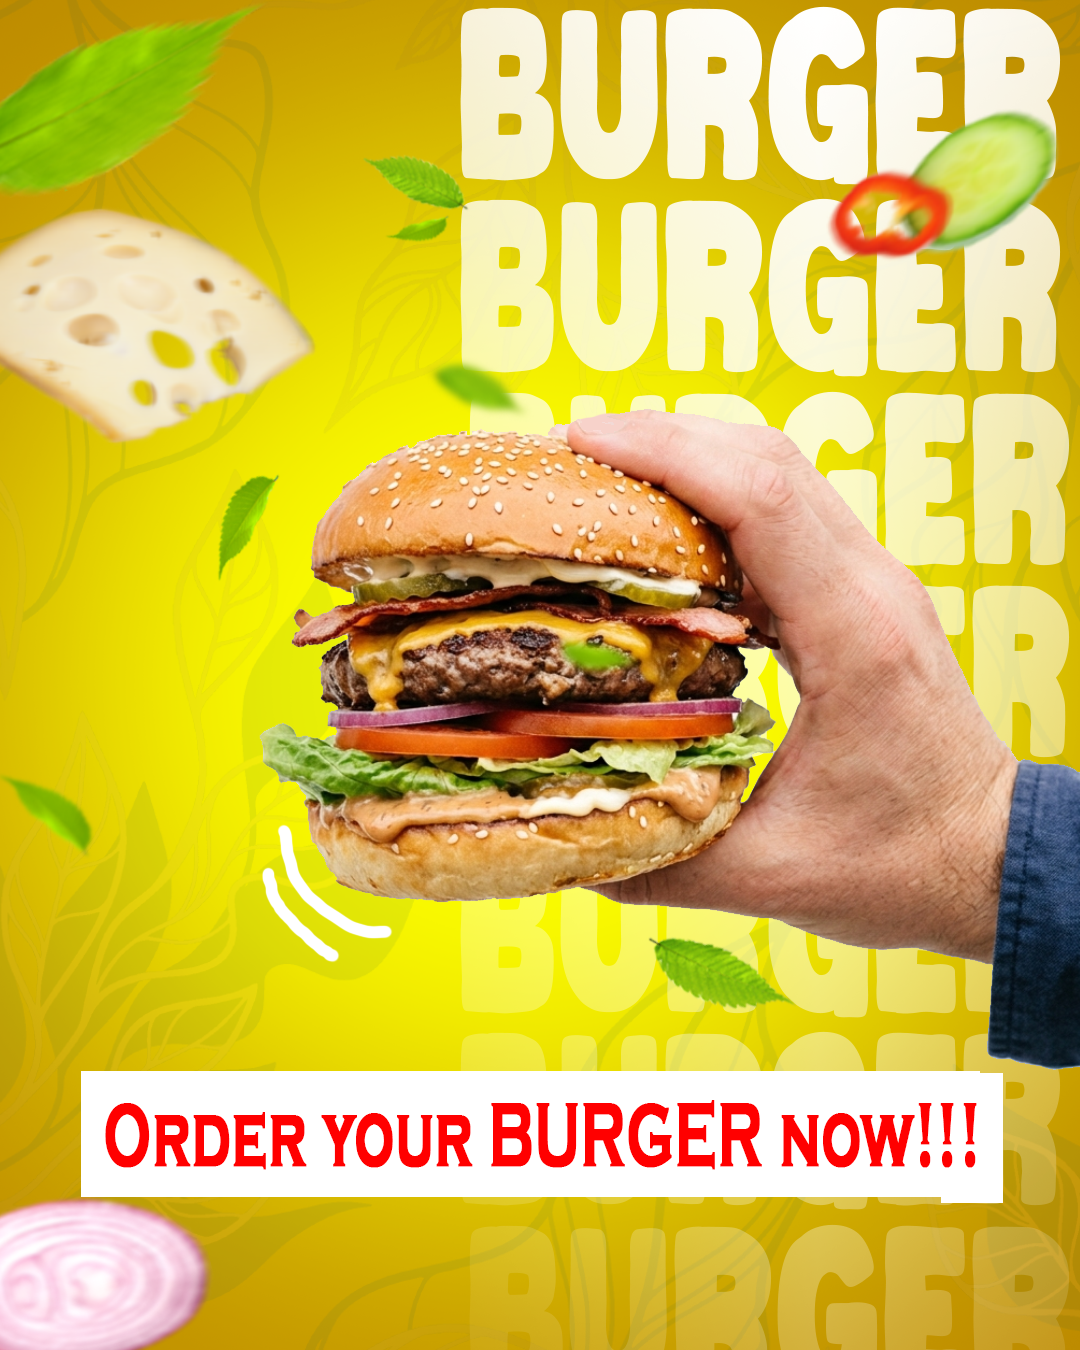
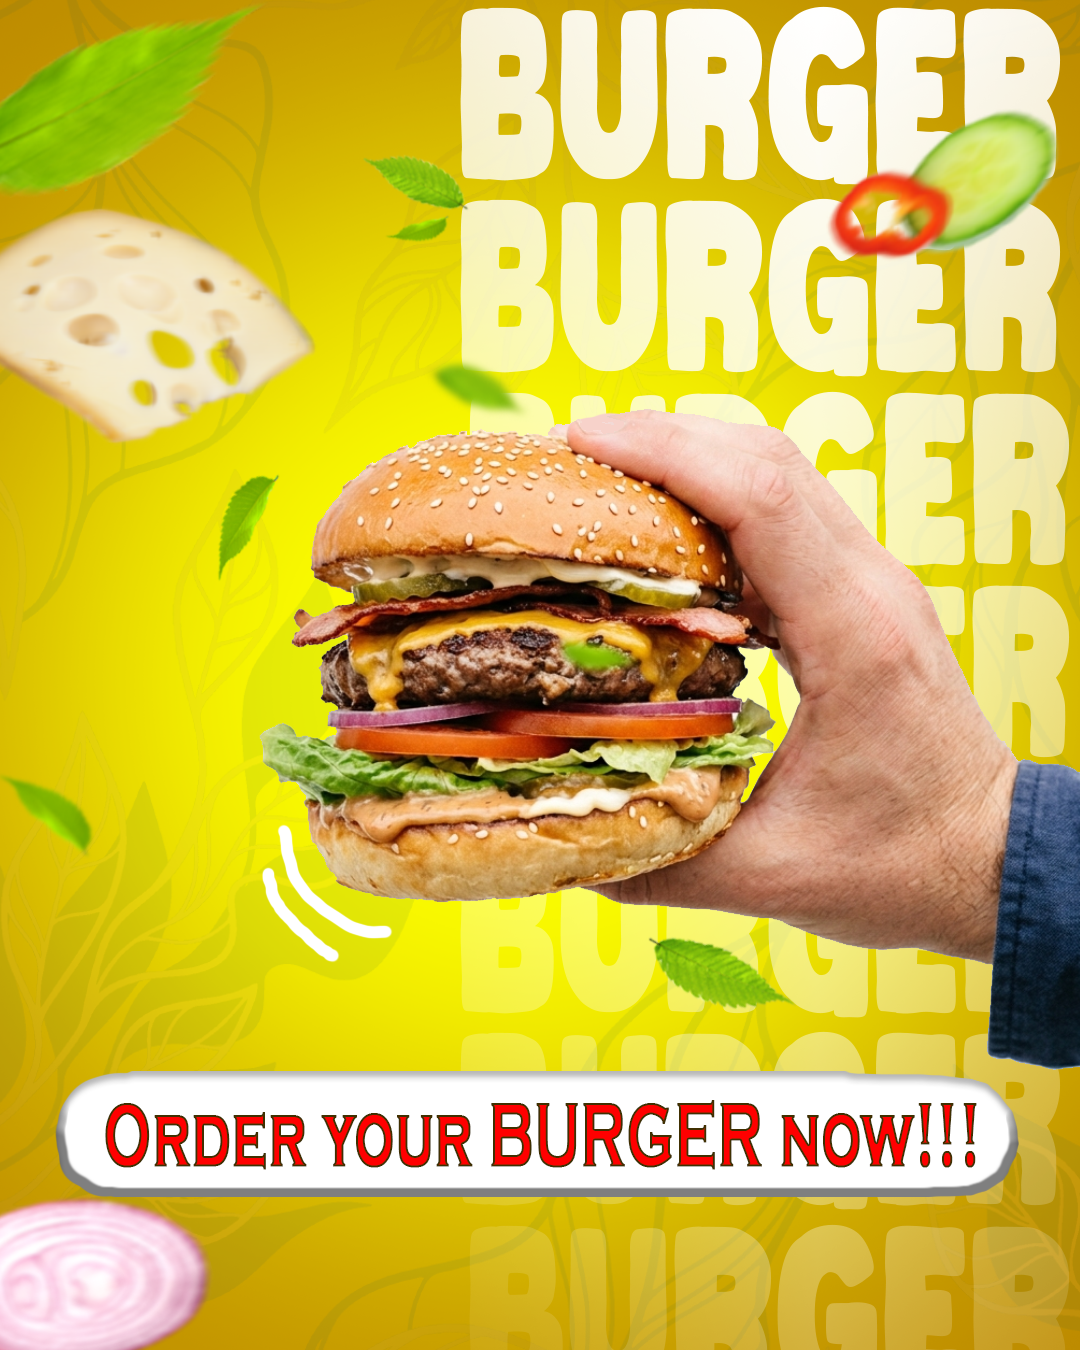
y

Changed region(s): [[0.0306, 0.7778, 0.9472, 0.9022]]

diff --git a/Affiches.html b/Affiches.html
@@ -458,44 +458,23 @@ footer {
         <h2 class="section-title lang-text" data-fr="Galerie d'Affiches & Projets" data-en="Poster Gallery & Projects">Galerie d'Affiches & Projets</h2>
         
         <div class="gallery-grid">
-            
-            <div class="poster-card">
-                <div class="poster-image">
-                    <img src="img/Affiches/Burger 1.png" alt="Design Agrival">
-                </div>
-                <div class="poster-info">
-                    <h3 class="poster-title">Design </h3>
-                    <p class="poster-category lang-text" data-fr="Coup de main en design" data-en="Support other designer">Coup de main en design</p>
-                </div>
-            </div>
-
-            <div class="poster-card">
-                <div class="poster-image">
-                    <img src="img/Affiches/Butter Chicken Thali - Modifié.png" alt="Design Nutrilait">
-                </div>
-                <div class="poster-info">
-                    <h3 class="poster-title">Sushi</h3>
-                    <p class="poster-category lang-text" data-fr="Le grand retour" data-en="The come back">Le grand retour</p>
-                </div>
-            </div>
-
-            <div class="poster-card">
-                <div class="poster-image">
-                    <img src="img/Affiches/Butter Chicken Thali.png" alt="Fyaro Services">
-                </div>
-                <div class="poster-info">
-                    <h3 class="poster-title">TEST</h3>
-                    <p class="poster-category lang-text" data-fr="Développement de compétence" data-en="Developping skills">Développement de compétence</p>
-                </div>
-            </div>
-
             <div class="poster-card">
                 <div class="poster-image">
                     <img src="img/Affiches/Coffee premium.png" alt="Expression Artistique">
                 </div>
                 <div class="poster-info">
-                    <h3 class="poster-title">Vision & Identité</h3>
-                    <p class="poster-category lang-text" data-fr="Art Numérique" data-en="Digital Art">Art Numérique</p>
+                    <h3 class="poster-title">Coffee </h3>
+                    <p class="poster-category lang-text" data-fr="Coffee premium" data-en="Coffee premium">premium</p>
+                </div>
+            </div>
+
+             <div class="poster-card">
+                <div class="poster-image">
+                    <img src="img/Affiches/Serum.png" alt="Projet Sérénité">
+                </div>
+                <div class="poster-info">
+                    <h3 class="poster-title">Serum</h3>
+                    <p class="poster-category lang-text" data-fr="Serum" data-en="Serum">Aloe Vera</p>
                 </div>
             </div>
 
@@ -504,38 +483,64 @@ footer {
                     <img src="img/Affiches/Indian King - MASALA UTTAPAM Thali Veg.png" alt="MBA Projet">
                 </div>
                 <div class="poster-info">
-                    <h3 class="poster-title">Corporate Management</h3>
-                    <p class="poster-category lang-text" data-fr="Design Éditorial" data-en="Editorial Design">Design Éditorial</p>
+                    <h3 class="poster-title">MASALA UTTAPAM </h3>
+                    <p class="poster-category lang-text" data-fr="MASALA UTTAPAM Thali Veg" data-en="MASALA UTTAPAM Thali Veg">Thali Veg</p>
                 </div>
             </div>
+
+            <div class="poster-card">
+                <div class="poster-image">
+                    <img src="img/Affiches/Burger 1.png" alt="Design Agrival">
+                </div>
+                <div class="poster-info">
+                    <h3 class="poster-title">Miam </h3>
+                    <p class="poster-category lang-text" data-fr="Burger" data-en="Burger">Burger</p>
+                </div>
+            </div>
+
+            <div class="poster-card">
+                <div class="poster-image">
+                    <img src="img/Affiches/Protein.png" alt="Design Nutrilait">
+                </div>
+                <div class="poster-info">
+                    <h3 class="poster-title">Whey</h3>
+                    <p class="poster-category lang-text" data-fr="Protein" data-en="Protein">Protein</p>
+                </div>
+            </div>
+
+            <div class="poster-card">
+                <div class="poster-image">
+                    <img src="img/Affiches/Butter Chicken Thali.png" alt="Fyaro Services">
+                </div>
+                <div class="poster-info">
+                    <h3 class="poster-title">Butter Chicken </h3>
+                    <p class="poster-category lang-text" data-fr="Butter Chicken Thali" data-en="Butter Chicken Thali"> Thali</p>
+                </div>
+            </div>
+
+            <div class="poster-card">
+                <div class="poster-image">
+                    <img src="img/Affiches/Sushi.png" alt="Projet Sérénité">
+                </div>
+                <div class="poster-info">
+                    <h3 class="poster-title">Sushi</h3>
+                    <p class="poster-category lang-text" data-fr="Sushi" data-en="Sushi"></p>
+                </div>
+            </div>
+
+            
 
             <div class="poster-card">
                 <div class="poster-image">
                     <img src="img/Affiches/intense perfume.png" alt="Projet Sérénité">
                 </div>
                 <div class="poster-info">
-                    <h3 class="poster-title">Mindfulness Concept</h3>
-                    <p class="poster-category lang-text" data-fr="Affiche Conceptuelle" data-en="Conceptual Poster">Affiche Conceptuelle</p>
+                    <h3 class="poster-title">Intense </h3>
+                    <p class="poster-category lang-text" data-fr="intense perfume" data-en="intense perfume">perfume</p>
                 </div>
             </div>
-            <div class="poster-card">
-                <div class="poster-image">
-                    <img src="img/Affiches/Serum.png" alt="Projet Sérénité">
-                </div>
-                <div class="poster-info">
-                    <h3 class="poster-title">Mindfulness Concept</h3>
-                    <p class="poster-category lang-text" data-fr="Affiche Conceptuelle" data-en="Conceptual Poster">Affiche Conceptuelle</p>
-                </div>
-            </div>
-            <div class="poster-card">
-                <div class="poster-image">
-                    <img src="img/Affiches/Sushi.png" alt="Projet Sérénité">
-                </div>
-                <div class="poster-info">
-                    <h3 class="poster-title">Mindfulness Concept</h3>
-                    <p class="poster-category lang-text" data-fr="Affiche Conceptuelle" data-en="Conceptual Poster">Affiche Conceptuelle</p>
-                </div>
-            </div>
+           
+            
 
         </div>
 
